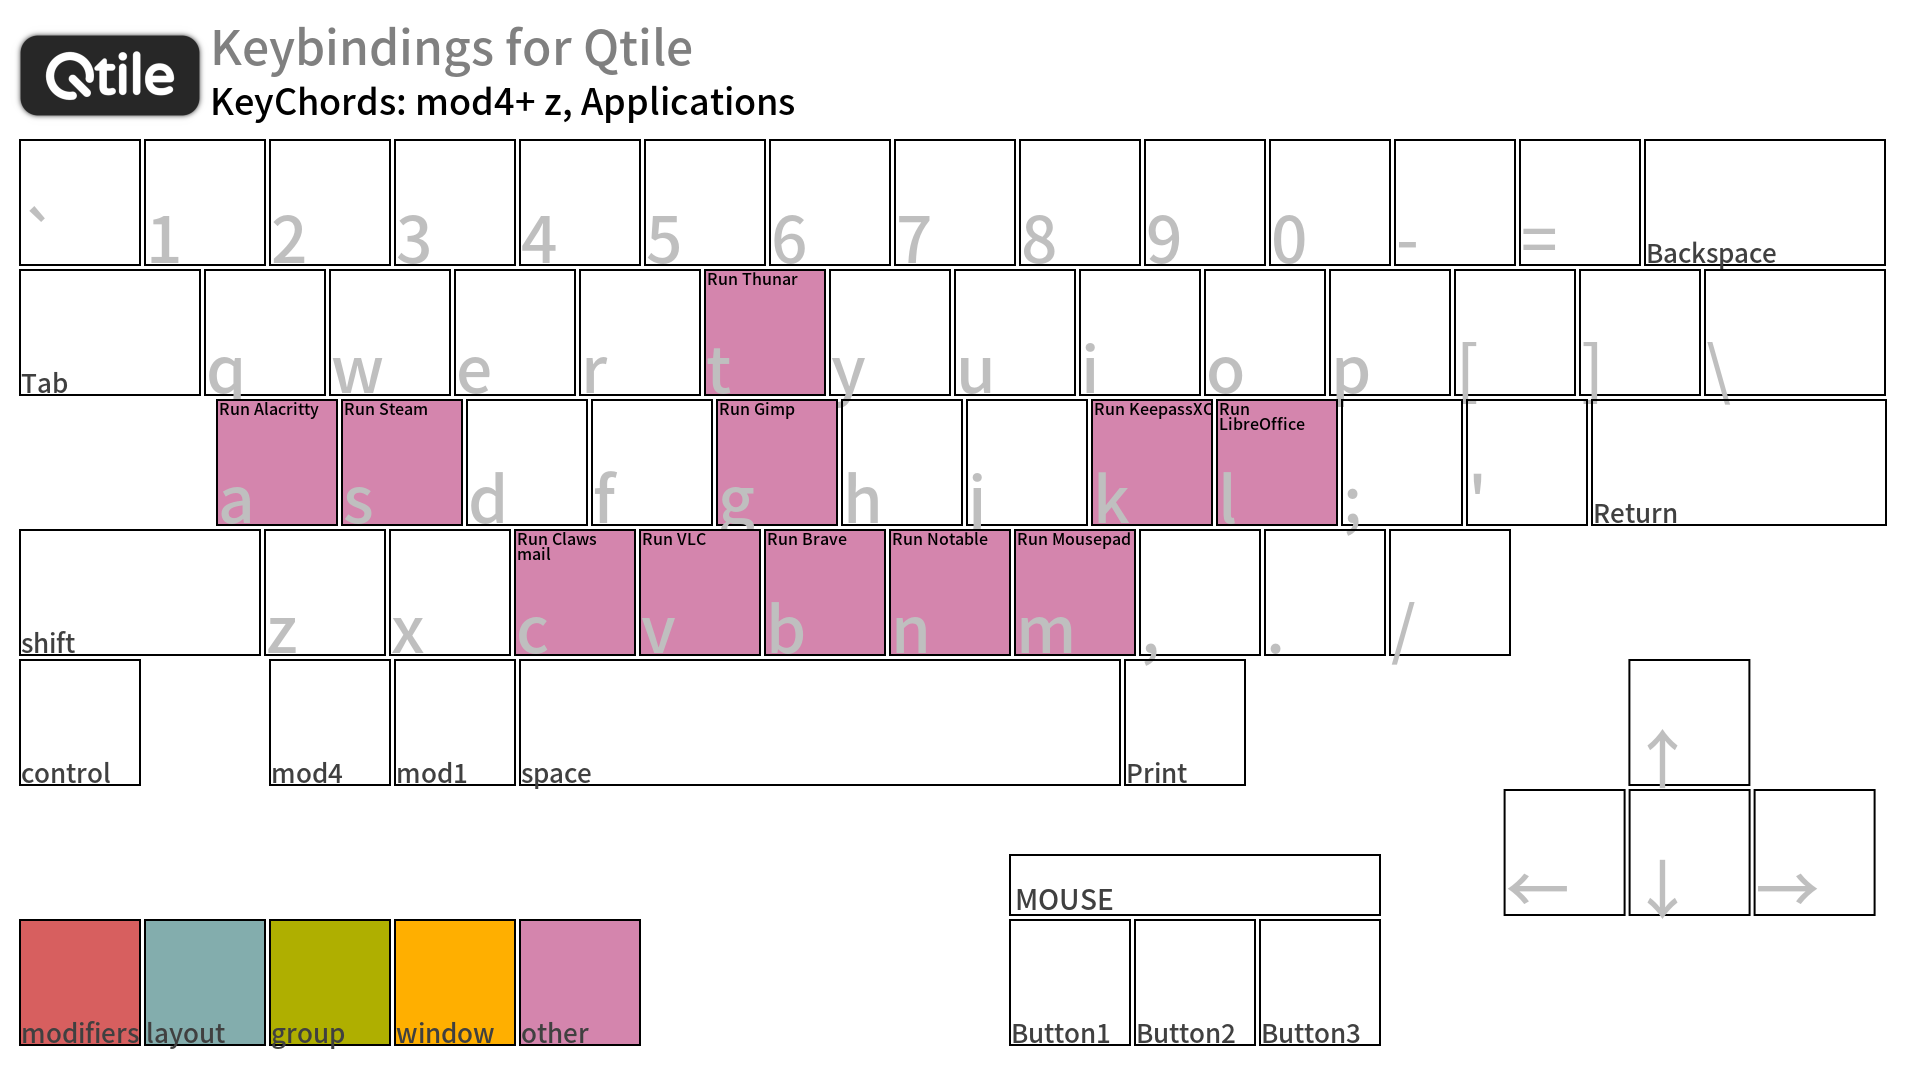
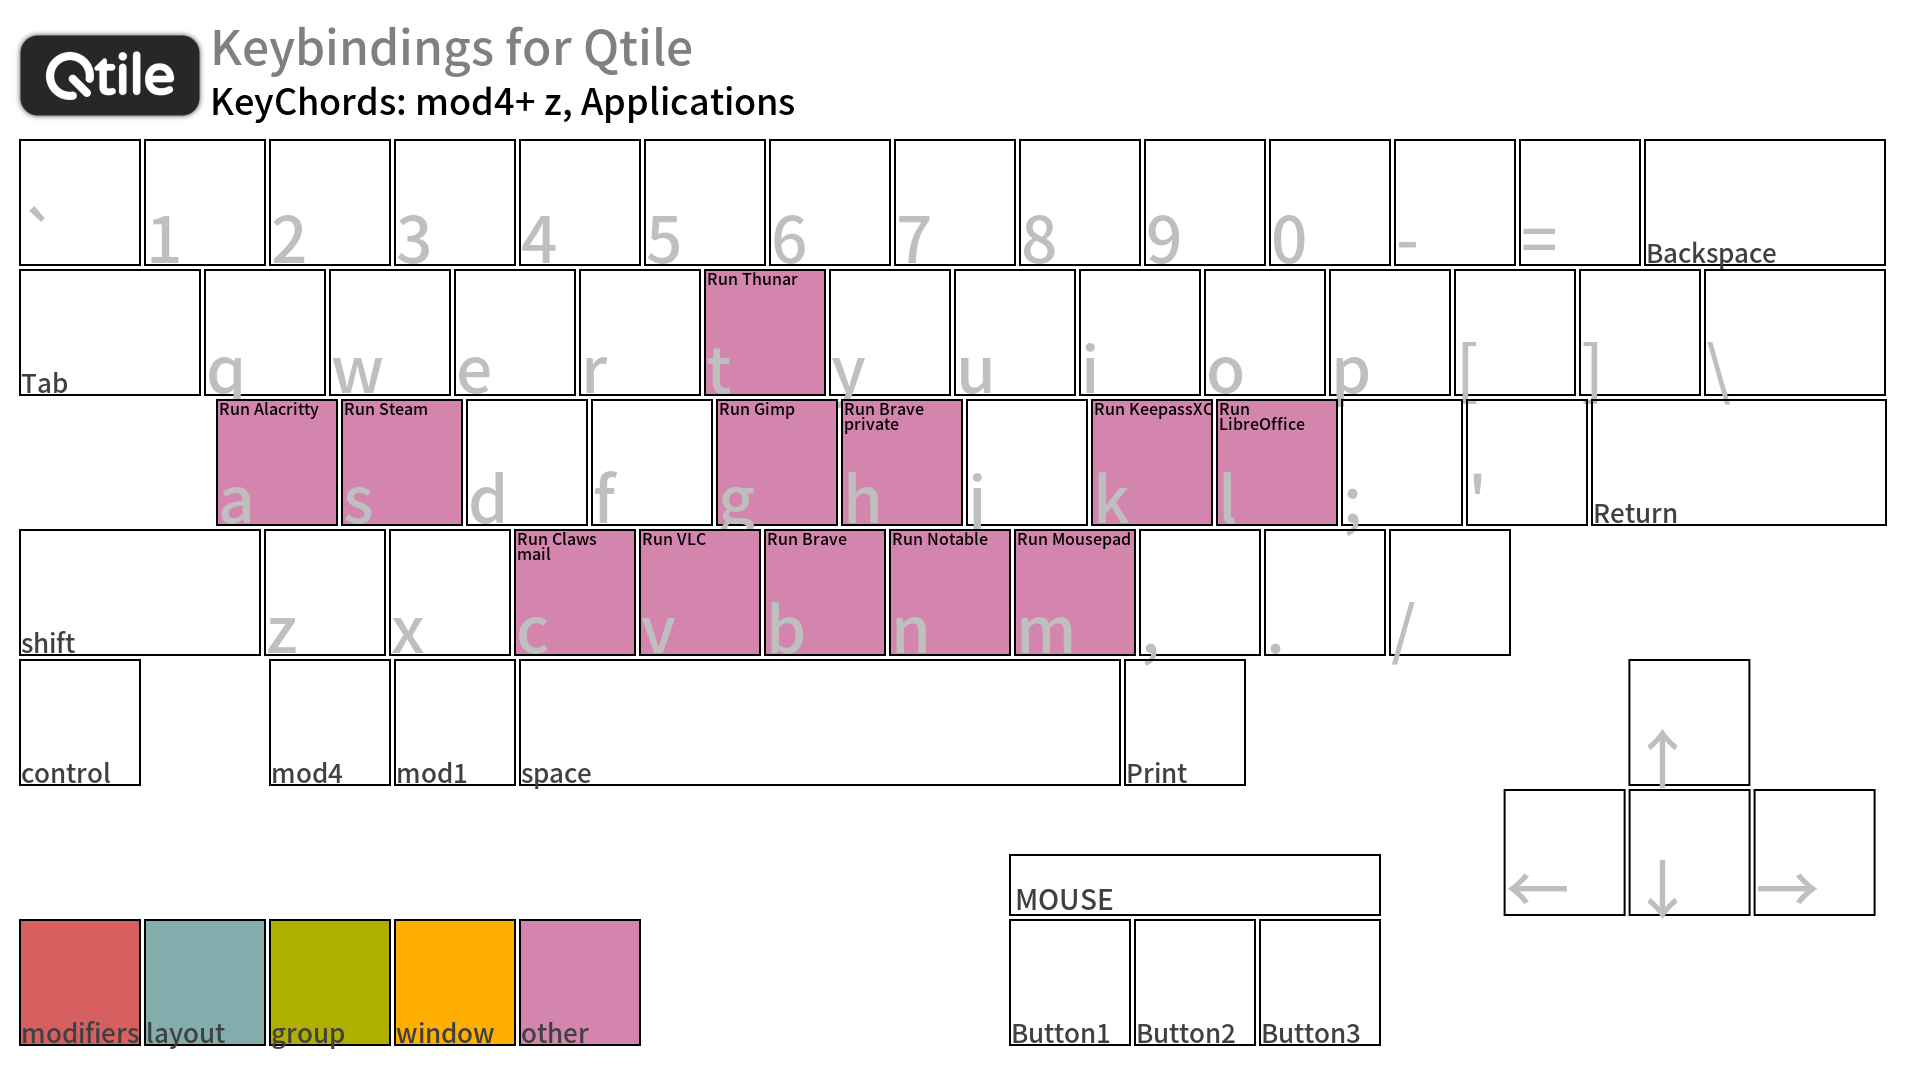
Made a lot of small fixes

Changed region(s): [[0.4375, 0.3667, 0.5, 0.4889]]

diff --git a/modules/keys.py b/modules/keys.py
@@ -1,16 +1,10 @@
 #
-# INFO: Here are my rules:
-#  Mod4 + Control:            Systematic control of Qtile
-#  Mod4 + Mod1/Alt:           Application Launcher
-#  Mod4 + Mod1/Alt + Control: Qtile's Scratchpad
-#
-# TODO: Some commands may not be accepted depending on the layout.
-# These will be written to the error log.
+# Keys
+#   https://docs.qtile.org/en/stable/manual/config/keys.html
 #
 
 import os
 #
-from libqtile import bar, extension, hook, layout, qtile
 from libqtile.lazy import lazy
 from libqtile.config import Key, KeyChord
 #
@@ -89,15 +83,16 @@ keys = [
   Key([mod4], 't', lazy.window.toggle_floating(),   desc = 'Toggle floating on the focused window'),
 
   Key([mod4, 'control'], 'r', lazy.reload_config(), desc = 'Reload the config'),
-  Key([mod4, 'shift'],   'r', lazy.spawncmd(),      desc = 'Spawn a command using a prompt widget'),
-  Key([mod4, 'control'], 'q', lazy.shutdown(),      desc = 'Shutdown Qtile, logout'),
+  Key([mod4], 'r', lazy.spawncmd(),                 desc = 'Spawn a command using a prompt widget'),
+  # Key([mod4, 'control'], 'q', lazy.shutdown(),      desc = 'Shutdown Qtile, logout'),
+  Key([mod4], 'q', lazy.function(show_power_menu),  desc = 'Popup Power Menu'),
   Key([mod4],            'w', lazy.window.kill(),   desc = 'Kill focused window'),
 
-  Key([mod4],            'r', lazy.run_extension(dmenu_normal),   desc = 'Dmenu Run Normal'),
   Key([mod4, 'control'], 'a', lazy.run_extension(dmenu_window),   desc = 'Dmenu All Tasks'),
-  Key([mod4, 'control'], 'p', lazy.run_extension(dmenu_power),    desc = 'Dmenu Power Menu'),
+  Key([mod4, 'control'], 'd', lazy.run_extension(dmenu_normal),   desc = 'Dmenu Run Normal'),
+  Key([mod4, 'control'], 'm', lazy.run_extension(dmenu_power),    desc = 'Dmenu Power Menu'),
   Key([mod4, 'control'], 't', lazy.run_extension(dmenu_terminal), desc = 'Dmenu All Terminal'),
-
+  #
   Key([mod4], 'Return', lazy.spawn('kitty'), desc = 'Launch kitty'),
   # Key([mod4], 'Return', lazy.spawn('brave') if self.qtile.current_group == "2" else lazy.spawn('kitty')),
   Key([mod4], 'space',  lazy.layout.next(),  desc = 'Move normal window focus to other window'),
@@ -122,18 +117,20 @@ keys = [
   #   desc = 'Print screen now'),
 
   # `my_scrot_now` is `command scrot -z -p "EndeavourOS_Qtile_%Y-%m-%d_%H-%M-%S.png" -e "mv \$f ~/Pictures/"`
-  Key([mod4, mod1], 'p', lazy.spawn("fish -c 'my_scrot_now'"),  desc = 'Print screen now'),
+  Key([mod4, 'control'], 'p', lazy.spawn("fish -c 'my_scrot_now'"),  desc = 'Print screen now'),
   # `my_scrot_wait` is `command scrot -c -d 10 -z -p "EndeavourOS_Qtile_%Y-%m-%d_%H-%M-%S.png" -e "mv \$f ~/Pictures/"`
-  Key([mod4, mod1], 'i', lazy.spawn("fish -c 'my_scrot_wait'"), desc = 'Print screen after 10 sec'),
+  Key([mod4, 'control'], 'i', lazy.spawn("fish -c 'my_scrot_wait'"), desc = 'Print screen after 10 sec'),
 
-  Key([mod4, 'shift'], 'q', lazy.function(show_power_menu), desc = 'Popup Power Menu'),
+  # Key([mod4, 'shift'], 'q', lazy.function(show_power_menu), desc = 'Popup Power Menu'),
 
   KeyChord([mod4], 'z', [
       # TODO: brave --incognito
+      # TODO: My customized gen-keybinging-img does not hook mod+z, shift+b
       Key([], 'a', lazy.spawn('alacritty'),   desc = 'Run Alacritty'),
       Key([], 'b', lazy.spawn('brave'),       desc = 'Run Brave'),
       Key([], 'c', lazy.spawn('claws-mail'),  desc = 'Run Claws mail'),
       Key([], 'g', lazy.spawn('gimp'),        desc = 'Run Gimp'),
+      Key([], 'h', lazy.spawn('brave --incognito'), desc = 'Run Brave private'),
       Key([], 'k', lazy.spawn('keepassxc'),   desc = 'Run KeepassXC'),
       Key([], 'l', lazy.spawn('libreoffice'), desc = 'Run LibreOffice'),
       Key([], 'm', lazy.spawn('mousepad'),    desc = 'Run Mousepad'),
@@ -143,6 +140,7 @@ keys = [
       Key([], 'v', lazy.spawn('vlc'),         desc = 'Run VLC'),
     ],
     mode = True,
+    # timeout = 3, # NOTE: This does not use?
     name = 'Applications',
   ),
 
@@ -157,9 +155,8 @@ keys = [
   ),
 
 
+  # This is test.
   Key([mod4], "F2", lazy.spawn("vlc")),
-
-
 ]
 
 

diff --git a/modules/popup.py b/modules/popup.py
@@ -4,7 +4,6 @@
 #
 
 from libqtile import widget
-# from libqtile.config import Key
 from libqtile.lazy import lazy
 #
 from qtile_extras.popup import (
@@ -13,62 +12,10 @@ from qtile_extras.popup import (
     PopupText
 )
 #
-# from modules.keys import keys
-from modules.variables import (
-  font_set,
-  mod4,
-)
+from modules.variables import font_set, mod4
 from theme_colors import Theme_Colors
 
 
-# def show_graphs(qtile):
-#   global popup_graph
-#
-#   # TODO: decoration this
-#   controls = [
-#     PopupWidget(
-#       widget = widget.CPUGraph(),
-#       width = 0.45,
-#       height = 0.45,
-#       pos_x = 0.05,
-#       pos_y = 0.05
-#     ),
-#     PopupWidget(
-#       widget = widget.NetGraph(),
-#       width = 0.45,
-#       height = 0.45,
-#       pos_x = 0.5,
-#       pos_y = 0.05
-#     ),
-#     PopupWidget(
-#       widget = widget.MemoryGraph(),
-#       width = 0.9,
-#       height = 0.45,
-#       pos_x = 0.05,
-#       pos_y = 0.5
-#     )
-#   ]
-#
-#   popup_graph = PopupRelativeLayout(
-#     qtile,
-#     width = 1000,
-#     height = 200,
-#     controls = controls,
-#     background = "00000060",
-#     initial_focus = None,
-#     close_on_click = False
-#   )
-#
-#   popup_graph.show(centered = True)
-#
-# TODO: toggle popup
-# TODO: control z order ?
-# def hide_graphs(qtile):
-#   popup_graph.hide()
-#
-#
-# TODO: This is a study and it is currently unfinished.
-#
 def show_power_menu(qtile):
 
   popupImage_common_settings = {

diff --git a/modules/dropdowns.py b/modules/dropdowns.py
@@ -6,8 +6,6 @@
 from libqtile.config import DropDown, Key, KeyChord, ScratchPad
 from libqtile.lazy import lazy
 #
-#from modules.variables import mod1, mod4
-#from modules.keys import keys
 from modules.groups import groups
 
 

diff --git a/modules/screens_bar.py b/modules/screens_bar.py
@@ -5,6 +5,7 @@
 # qtile-extras documentation
 #  https://qtile-extras.readthedocs.io/en/stable/
 #
+
 from modules.screens_bar__main import screen_main
 from modules.screens_bar__sub_01 import screen_sub_01
 

diff --git a/modules/screens_bar___common.py b/modules/screens_bar___common.py
@@ -6,8 +6,6 @@
 #  https://qtile-extras.readthedocs.io/en/stable/
 #
 
-
-#
 from qtile_extras.widget.decorations import PowerLineDecoration
 # from qtile_extras.resources import wallpapers
 #

diff --git a/modules/mouse.py b/modules/mouse.py
@@ -3,7 +3,6 @@
 #   https://docs.qtile.org/en/stable/manual/config/mouse.html
 #
 
-#
 from libqtile.config import Click, Drag
 from libqtile.lazy import lazy
 #

diff --git a/modules/layouts.py b/modules/layouts.py
@@ -3,7 +3,6 @@
 #   https://docs.qtile.org/en/stable/manual/ref/layouts.html
 #
 
-#
 from libqtile import layout
 #
 from modules.variables import font_set

diff --git a/modules/screens_bar__main.py b/modules/screens_bar__main.py
@@ -8,7 +8,6 @@
 
 # TODO: Tooltips of qtile-extras
 
-#
 from libqtile import bar, qtile
 from libqtile.config import Screen
 from libqtile.lazy import lazy

diff --git a/modules/screens_bar__sub_01.py b/modules/screens_bar__sub_01.py
@@ -6,7 +6,6 @@
 #  https://qtile-extras.readthedocs.io/en/stable/
 #
 
-#
 from libqtile import bar, qtile
 from libqtile.config import Screen
 #

diff --git a/modules/screens_bar_none.py b/modules/screens_bar_none.py
@@ -5,6 +5,7 @@
 from libqtile import bar, qtile
 from libqtile.config import Screen
 
+
 screens = [
   Screen(
     top = None,

diff --git a/modules/groups.py b/modules/groups.py
@@ -1,5 +1,6 @@
 #
-#
+# Groups
+#   https://docs.qtile.org/en/stable/manual/config/groups.html
 #
 
 import re
